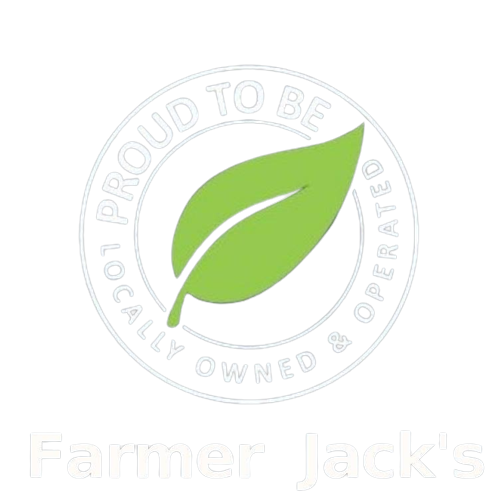
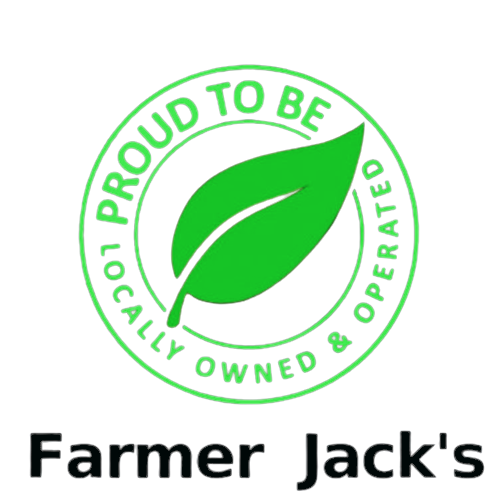
working image slider

diff --git a/app/navigation/nav.tsx b/app/navigation/nav.tsx
@@ -14,7 +14,7 @@ export default function Navbar(){
         <nav className="flex justify-between items-center lg:absolute w-[92%] lg:left-[4%] mx-auto  z-50 py-2 lg:py-7">
             <div className="w-full flex justify-start lg:justify-end">
                 
-                    <Image src={FjLogo} alt="Logo" width={90} height={90} className="rounded-lg bg-black "/>
+                    <Image src={FjLogo} alt="Logo" width={130} height={130} className="rounded-lg "/>
                 
               
               
